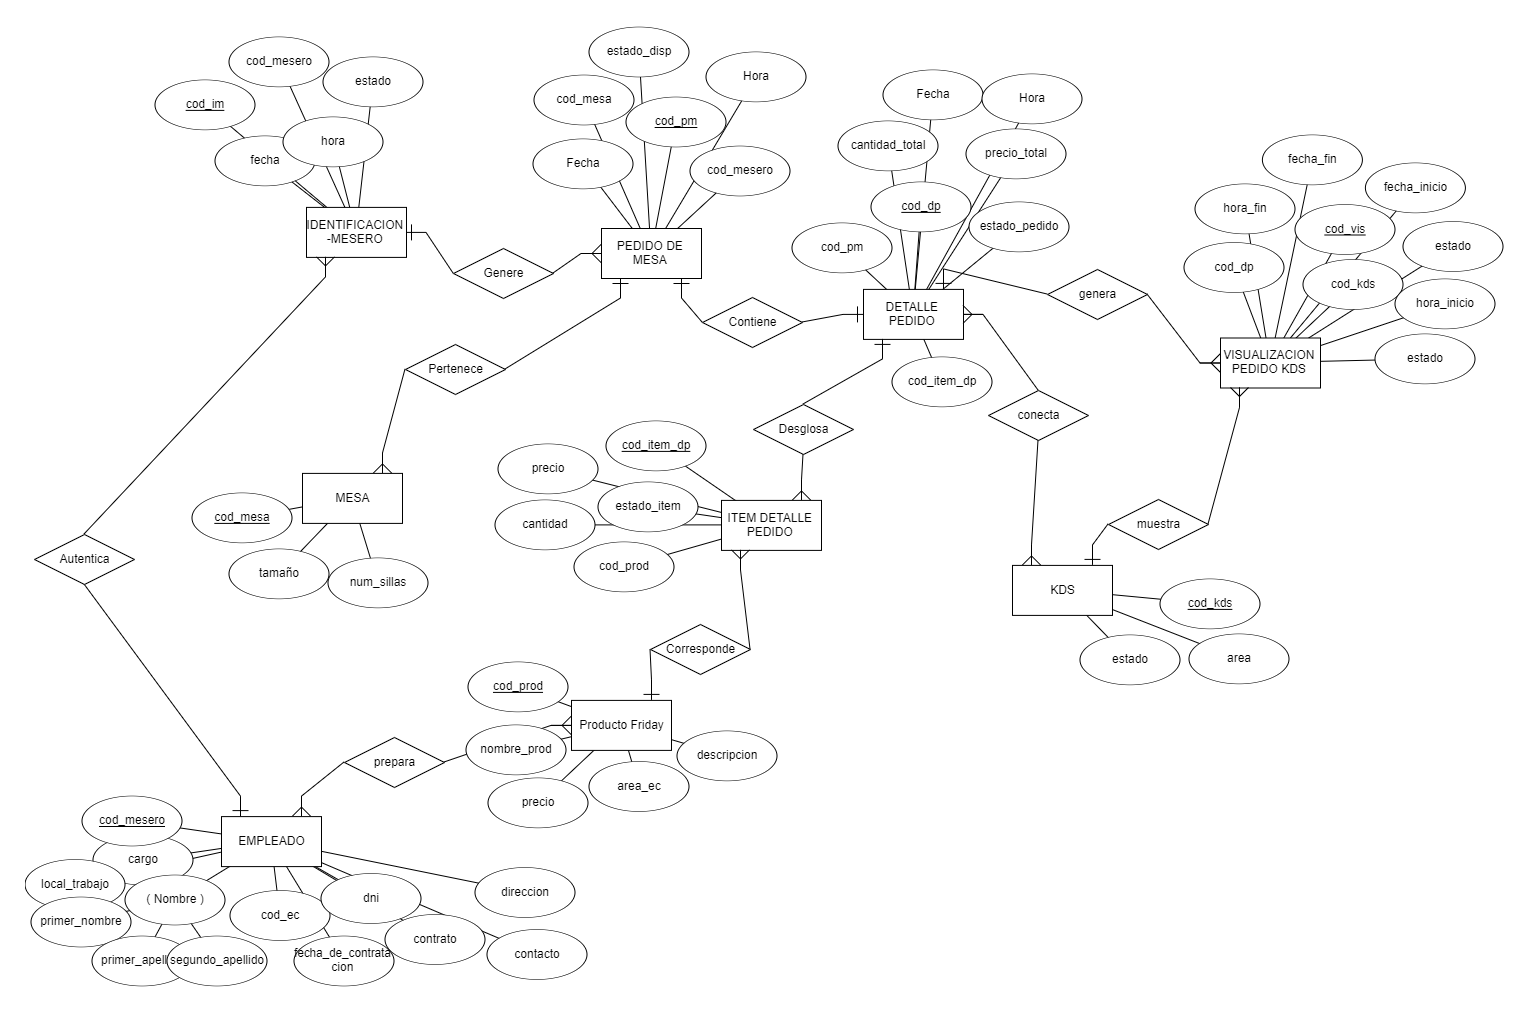
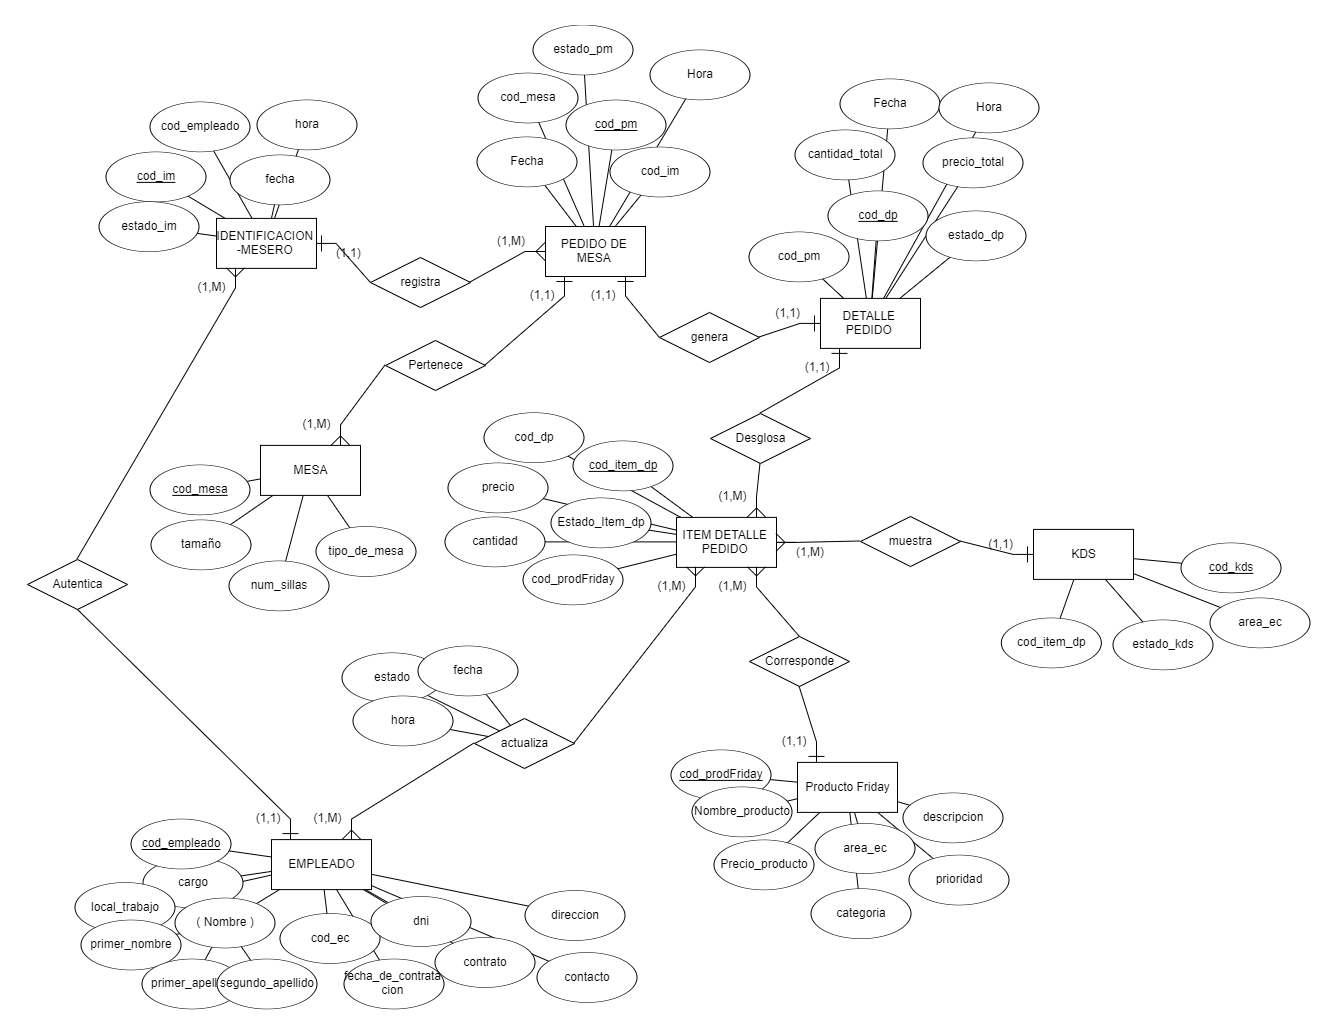
ultimo act

diff --git a/5/5.1/5.1.md b/5/5.1/5.1.md
@@ -19,4 +19,6 @@
 
 ![Descripción de la imagen](../Diagramas%20ER/ER_GestionInventario.png)
 
-Sample content for section 5.1.
+## Diagrama Conceptual de los 5 modelos
+![Descripción de la imagen](../Diagramas%20ER/ER_MODELO_FRIDAY.png)
+
